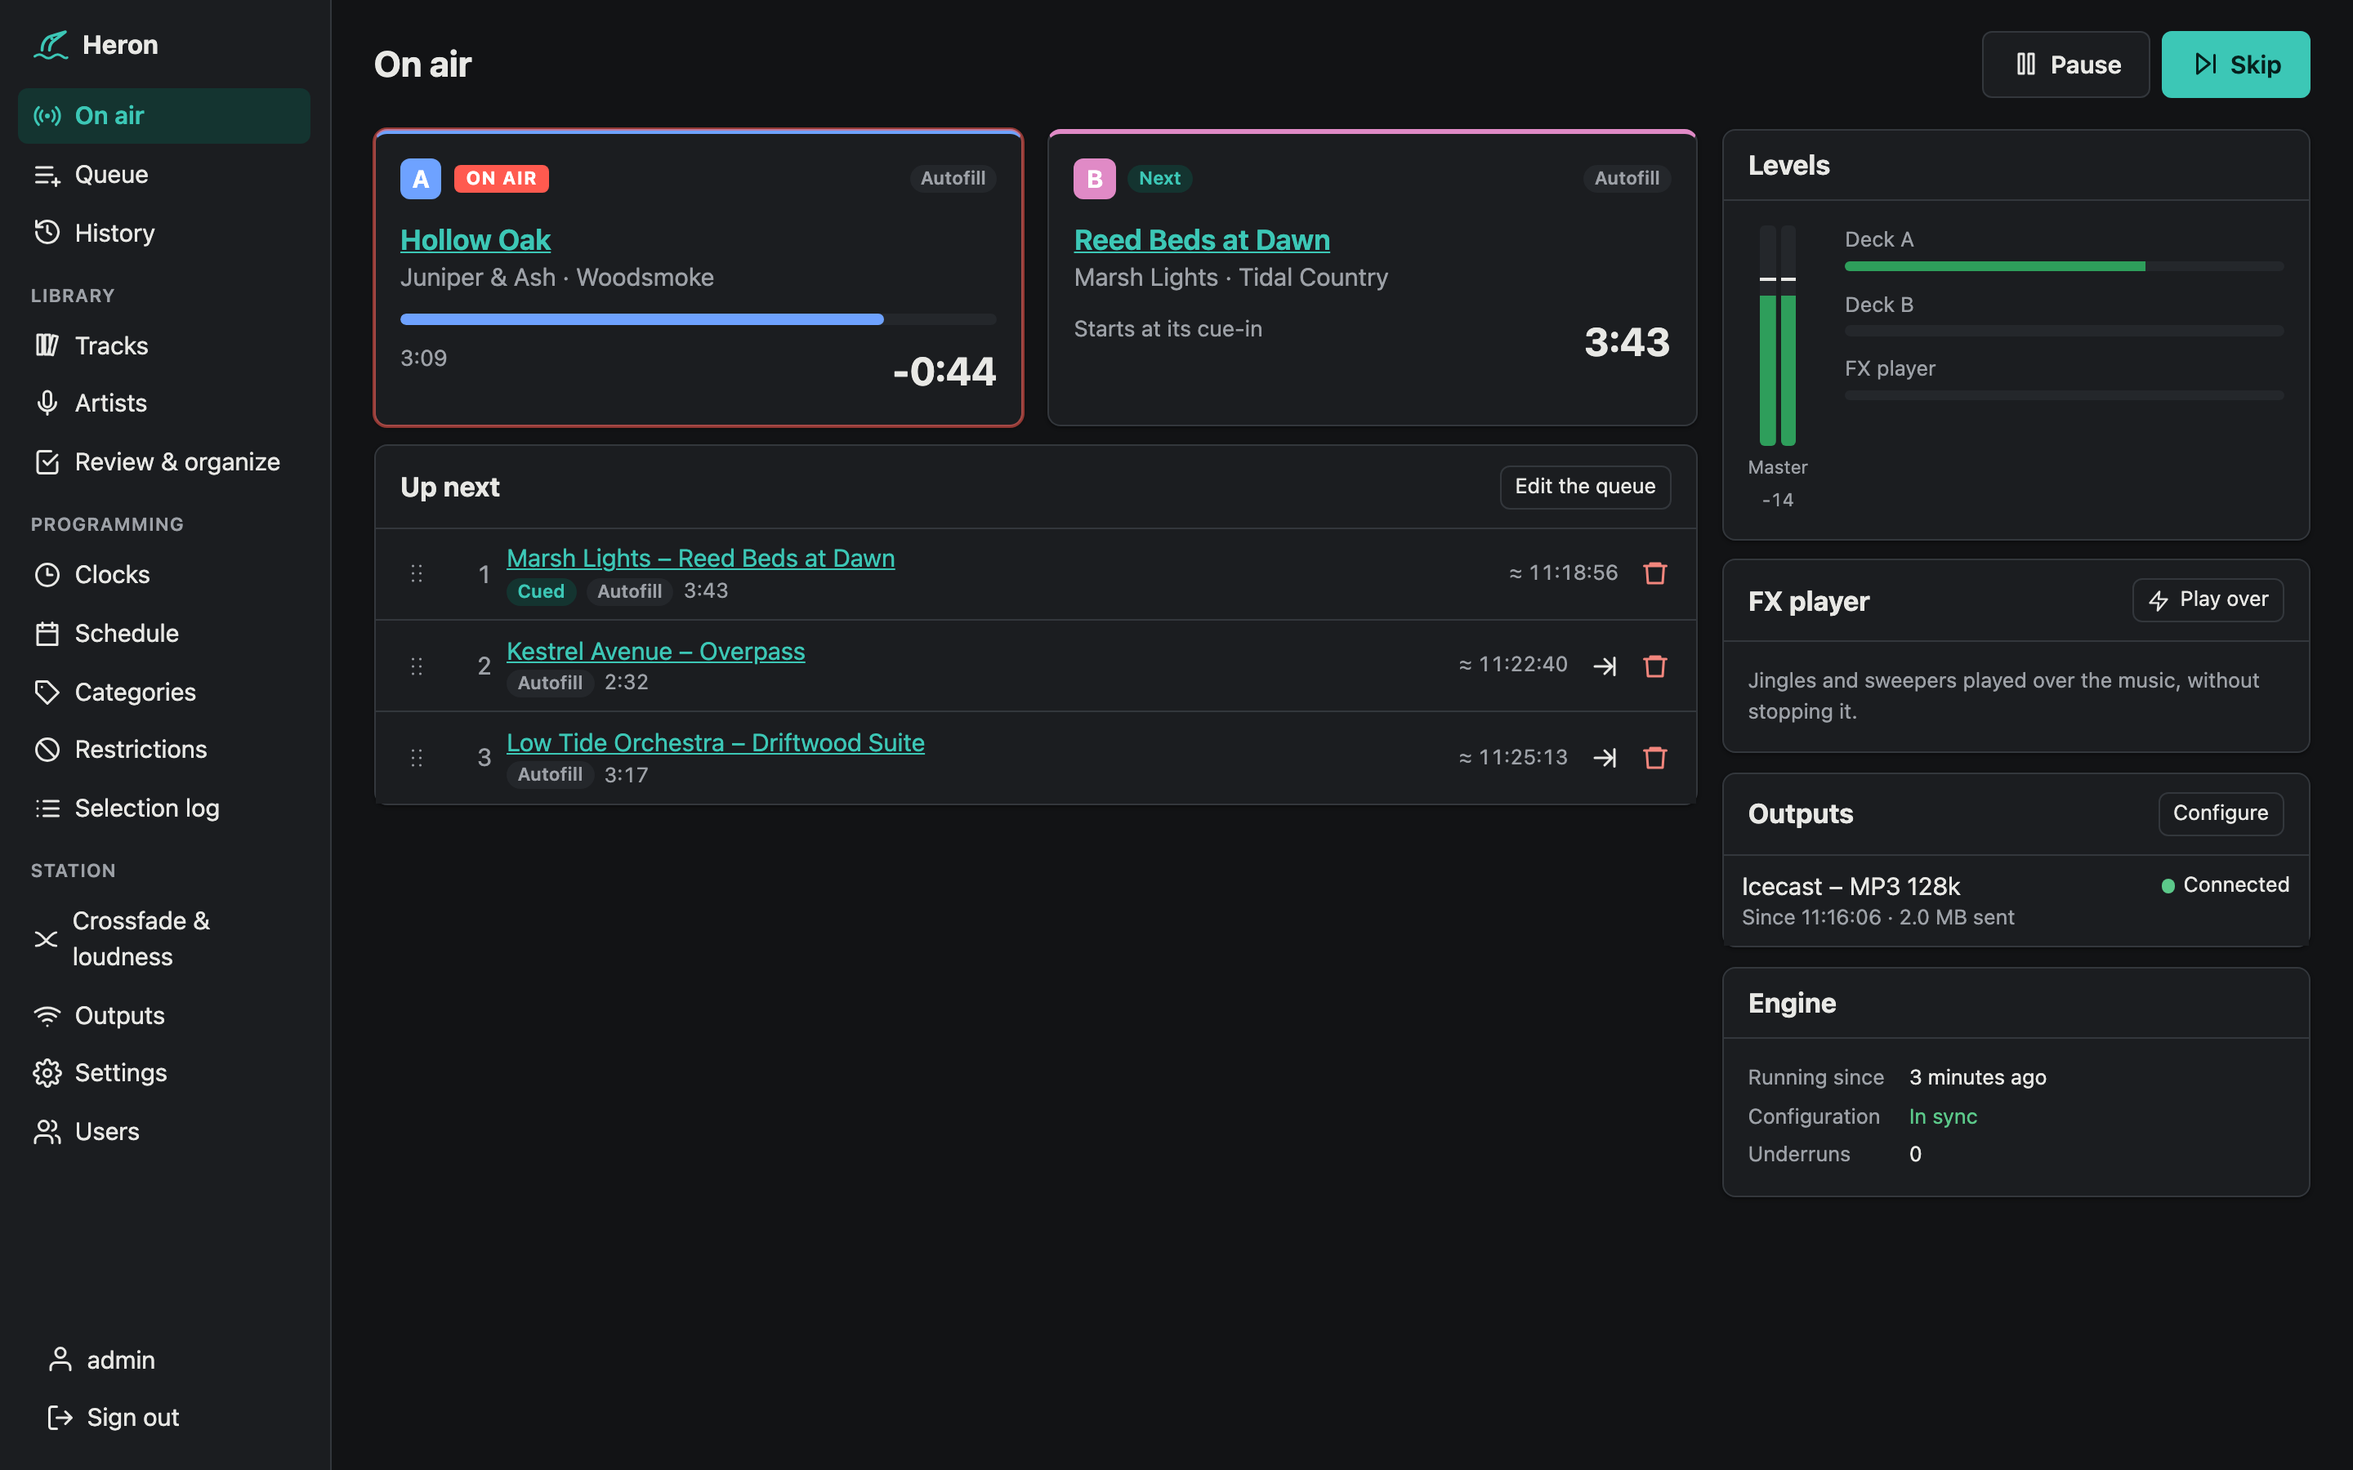
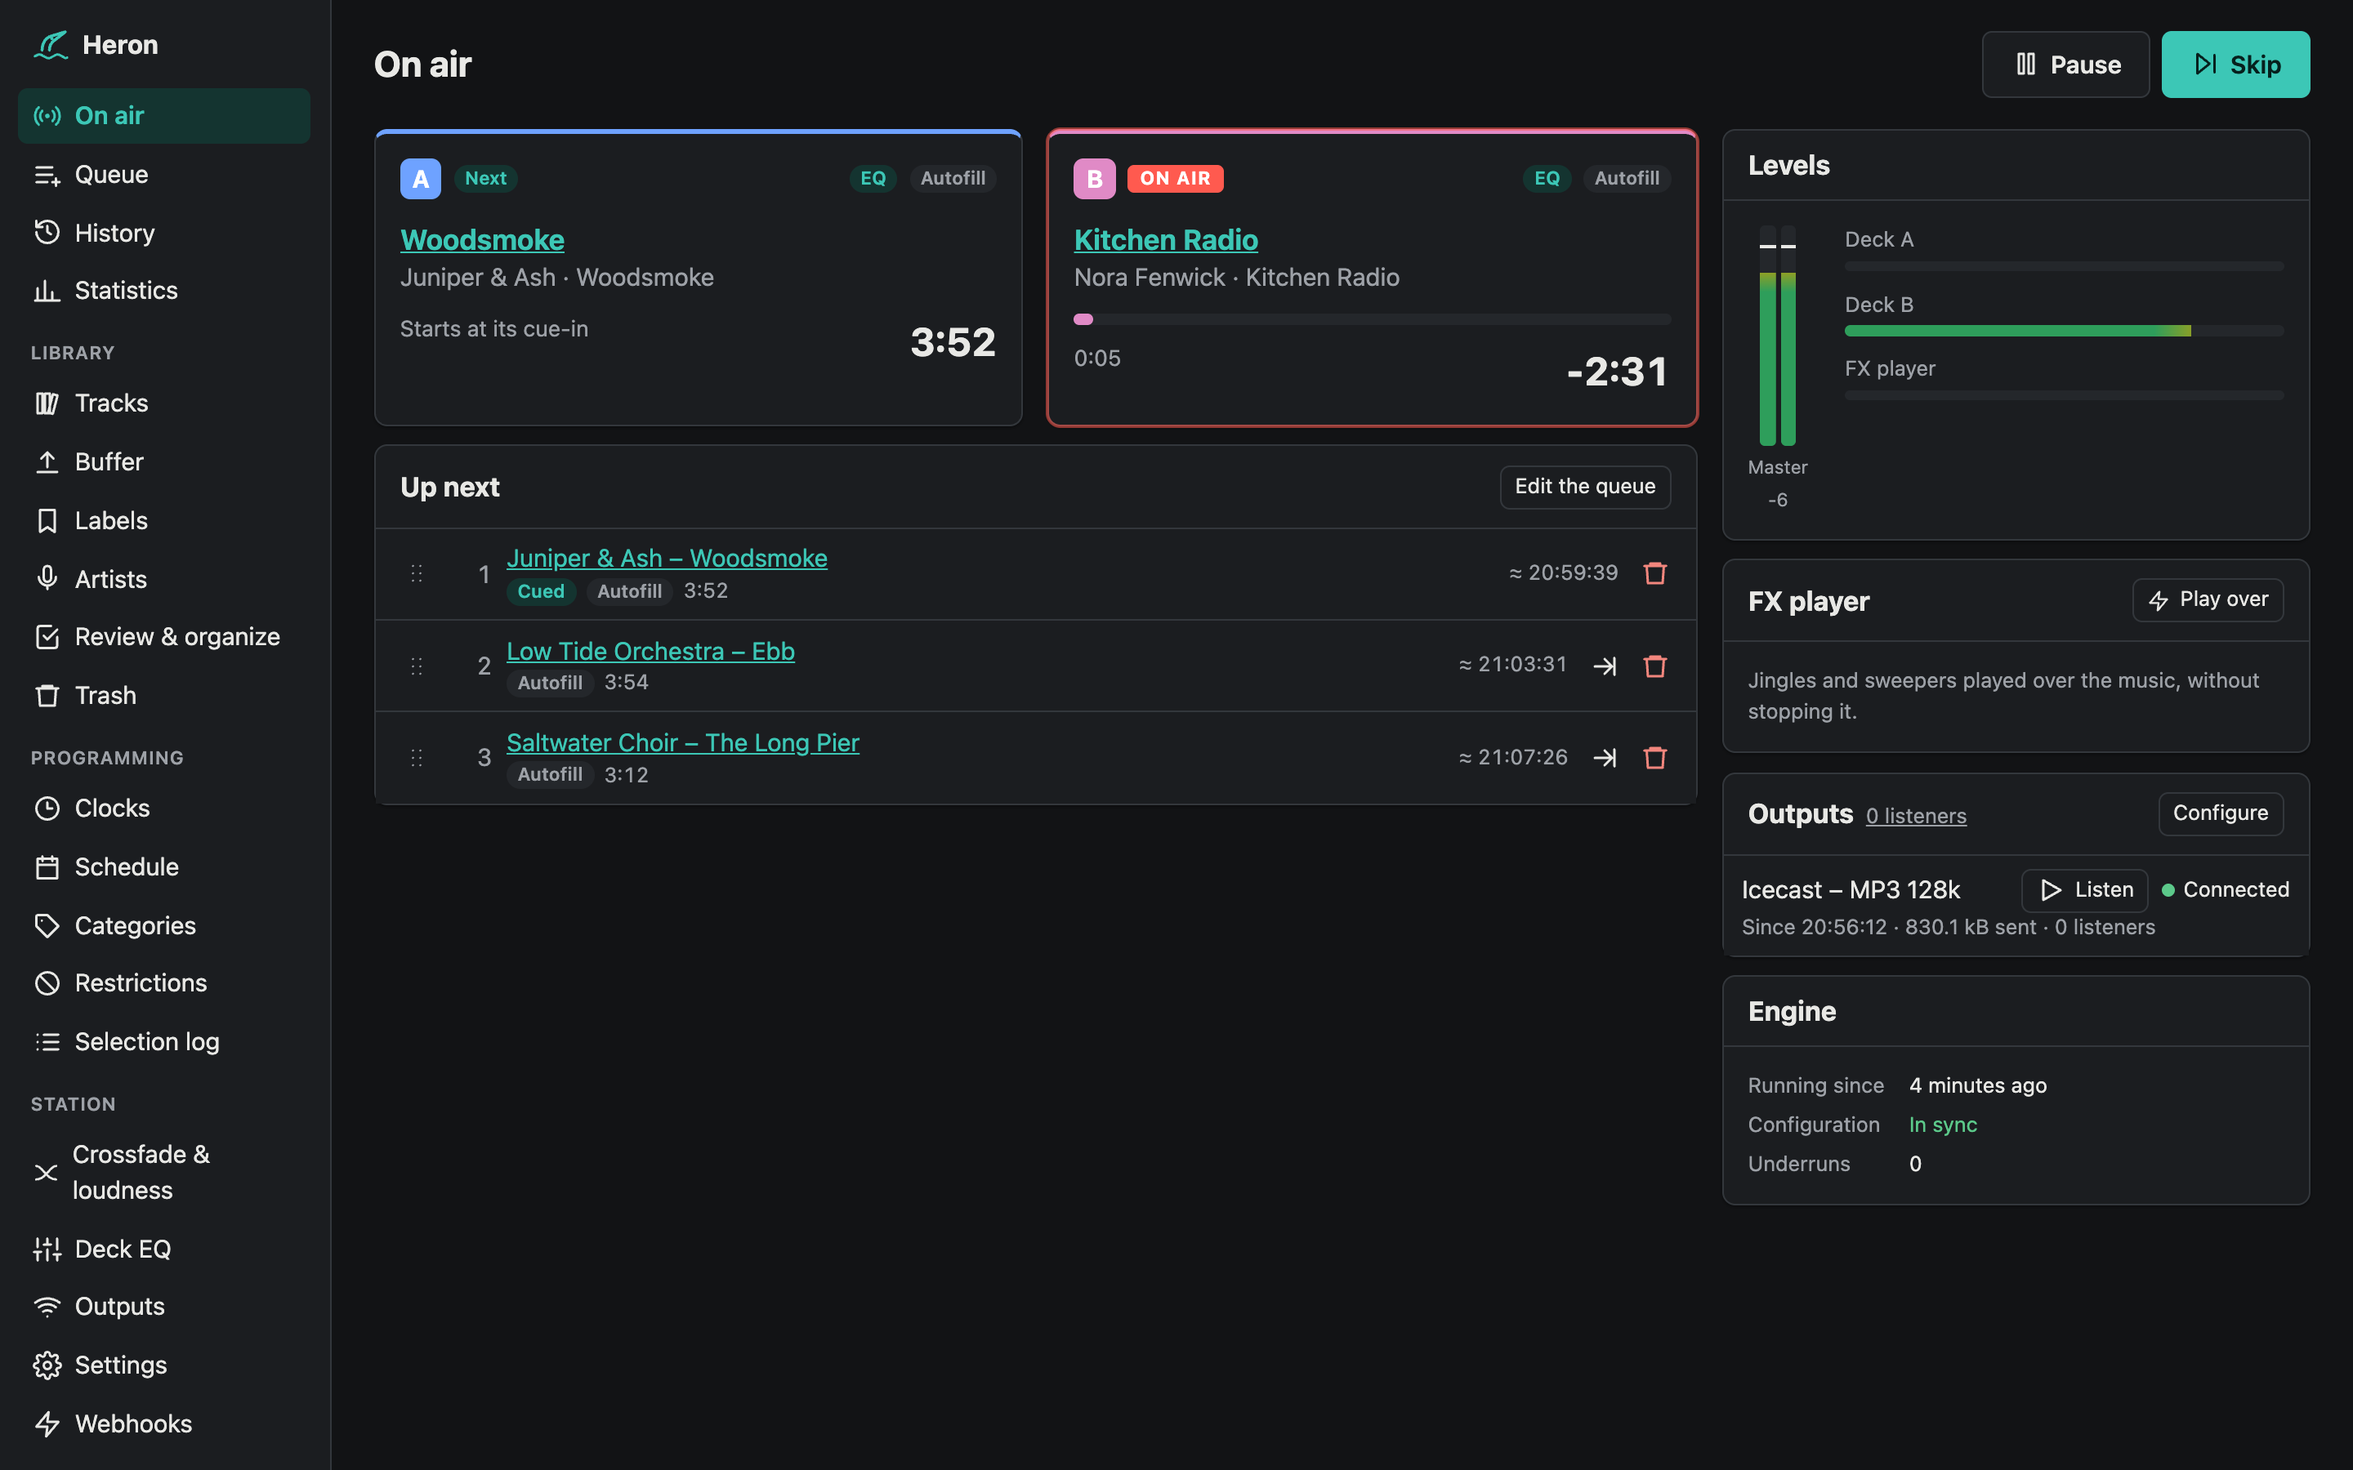
docs, web: M9 acceptance so far, README and screenshots
The README says what the deck EQ does, with a screenshot of its page,
and the On air screenshots show the EQ badge. Six of seven criteria
met; the click test still wants a listen on a stack. On the page, the
curve's scale is ±15 dB (±18 made usual settings look flat), and the
deck's EQ badge is not underlined like a text link.

diff --git a/web/src/pages/Eq.tsx b/web/src/pages/Eq.tsx
@@ -203,10 +203,11 @@ function sameGains(a: number[], b: number[]): boolean {
   return a.length === b.length && a.every((gain, i) => gain === b[i]);
 }
 
-// The curve: 20 Hz to 20 kHz on a log scale, ±18 dB.
+// The curve: 20 Hz to 20 kHz on a log scale, ±15 dB: a band's ±12 and
+// some of what neighbours add up to.
 const WIDTH = 600;
 const HEIGHT = 140;
-const RANGE_DB = 18;
+const RANGE_DB = 15;
 const x = (frequency: number) => (Math.log10(frequency / 20) / 3) * WIDTH;
 const y = (db: number) => HEIGHT / 2 - (Math.max(-RANGE_DB, Math.min(RANGE_DB, db)) / RANGE_DB) * (HEIGHT / 2);
 

diff --git a/web/src/pages/Dashboard.tsx b/web/src/pages/Dashboard.tsx
@@ -313,7 +313,7 @@ function Deck({
           </div>
           <div className="row" style={{ flexWrap: "nowrap" }}>
             {shaping && (
-              <Link to="/eq" className="badge accent" title={t("dashboard.eqOn")}>
+              <Link to="/eq" className="badge accent badge-link" title={t("dashboard.eqOn")}>
                 {t("dashboard.eq")}
               </Link>
             )}

diff --git a/web/src/index.css b/web/src/index.css
@@ -806,6 +806,14 @@ table.table {
 }
 
 /* A label on a track. */
+a.badge-link {
+  text-decoration: none;
+}
+
+a.badge-link:hover {
+  text-decoration: underline;
+}
+
 .chip {
   display: inline-flex;
   align-items: center;

diff --git a/README.md b/README.md
@@ -6,7 +6,7 @@ The name comes from "air on" sounding like *héron*: keeping the air on, 24/7.
 
 ![The On air page: decks A and B, the next tracks, levels, the FX player, outputs and the engine's state](docs/images/on-air.png)
 
-> **Status:** early development, but it plays. Heron imports and analyzes a music library, takes new music by upload or through an incoming folder and files it once you import it, plays a queue with crossfades to Icecast servers, picks the music with categories, clocks and a weekly schedule, keeps the air on when the database, the API or the library goes away, and when Heron itself is upgraded, tells websites and bots what plays through signed webhooks and public now-playing endpoints, counts its listeners from the stream servers, and is operated from a web interface in English or French. Next: audio processing (M9, M10). See the [roadmap](docs/roadmap/README.md).
+> **Status:** early development, but it plays. Heron imports and analyzes a music library, takes new music by upload or through an incoming folder and files it once you import it, plays a queue with crossfades to Icecast servers, picks the music with categories, clocks and a weekly schedule, keeps the air on when the database, the API or the library goes away, and when Heron itself is upgraded, tells websites and bots what plays through signed webhooks and public now-playing endpoints, counts its listeners from the stream servers, shapes the sound with a deck EQ, and is operated from a web interface in English or French. Next: the AGC and multiband processing (M10). See the [roadmap](docs/roadmap/README.md).
 
 Heron runs on Linux, amd64 and arm64, down to a Raspberry Pi.
 
@@ -15,12 +15,13 @@ Heron runs on Linux, amd64 and arm64, down to a Raspberry Pi.
 - **Library:** watches your music folder (MP3, AAC and ALAC in M4A, FLAC, Ogg Vorbis, WAV, AIFF) and analyzes every track: loudness, true peak, silences at both ends, where the next track can start, a waveform. See [Import and analysis](docs/analysis.md).
 - **New music and deletion:** files uploaded from the browser (resumable, folders included) or dropped into the incoming folder wait in a buffer zone, identified (AcoustID, MusicBrainz) and checked for duplicates and unplayable files, until you import them. There you fix their tags and give them categories, labels, mood and sound code, so they are ready to air once imported; they are then tagged and filed as `Artist/Album/01 Title.ext`. Deleted tracks go to a trash they can be restored from for 30 days. Reorganizing the library is a dry run first, journaled, and can be undone. See [Library management](docs/library.md).
 - **Playout:** two decks with crossfades or fixed overlaps, Gap Killer, loudness normalization, an FX player for jingles over the music, a fallback folder, MP3 to one or more Icecast servers with track metadata. See [Audio engine](docs/audio-engine.md) and [Encoders and outputs](docs/outputs.md).
+- **Deck EQ:** a 10-band EQ for the music and another for the FX player, ±12 dB, heard as the sliders move and without clicks, with presets. See [Audio engine – Deck EQ](docs/audio-engine.md#deck-eq).
 - **Reliability and monitoring:** the next tracks are read into memory ahead of time, a fallback folder plays when the queue runs dry, a silence watchdog skips dead tracks, and the queue resumes where it was after a restart. Every service pushes its metrics to your Prometheus or Grafana Cloud, with a dashboard and alert rules to import, and errors can go to Sentry. See [Monitoring](docs/monitoring.md).
 - **Upgrades on air:** a new engine takes over from the running one, with its queue and its connection to Icecast, so an upgrade costs listeners about 70 ms of silence instead of a disconnection; when the engine does restart, Icecast's fallback mount keeps them connected. See [Upgrading](docs/upgrading.md) and [Engine handover](docs/handover.md).
 - **Rotation:** categories, clocks of slots, a weekly schedule, separation rules (title, artist, album) relaxed step by step when the library runs short, artists with several names, restrictions (dayparting, date ranges, sequences) that are never relaxed, and a selection log that explains every pick. A simulation checks a day or a week ahead. See [Rotation](docs/rotation.md).
 - **Integrations:** webhooks on track start, end and skip, with Heron's JSON or a template of your own, signed (HMAC-SHA256), retried with backoff and logged; public now-playing and history endpoints for the station's website, readable from any origin. See [API – Webhooks](docs/api.md#webhooks).
 - **Listener statistics:** listeners per day, hour, output and track, read from your Icecast servers once a minute: peak, average, listening hours, sessions, distinct listeners, the hours of the day, the players and the tracks listeners leave, with CSV exports. No IP address is stored. See [Listener statistics](docs/statistics.md).
-- **Web interface:** on air, queue, history, statistics, tracks with their waveform, cue points, details, labels and tags, the buffer and the trash, artists, clocks, schedule, restrictions, outputs, webhooks and settings; live updates, light and dark themes, English and French, from phone width up. Viewer, operator and admin roles. See [Web UI](docs/web.md).
+- **Web interface:** on air, queue, history, statistics, tracks with their waveform, cue points, details, labels and tags, the buffer and the trash, artists, clocks, schedule, restrictions, the deck EQ, outputs, webhooks and settings; live updates, light and dark themes, English and French, from phone width up. Viewer, operator and admin roles. See [Web UI](docs/web.md).
 - **API:** everything the web interface does goes through a documented HTTP and WebSocket API (OpenAPI), with API tokens for scripts. See [API and control plane](docs/api.md).
 
 ## Screenshots
@@ -28,9 +29,8 @@ Heron runs on Linux, amd64 and arm64, down to a Raspberry Pi.
 | | |
 |---|---|
 | [![A clock: its slots, the hour drawn as it will sound, a simulation](docs/images/clock-editor.png)](docs/images/clock-editor.png) **Clock editor:** slots by drag and drop, the hour as it will sound | [![A track: waveform with cue-in, cue-out and where the next track starts](docs/images/track.png)](docs/images/track.png) **Track:** waveform, cue points and crossfade, analysis |
-| [![The week, hour by hour, painted with clocks](docs/images/schedule.png)](docs/images/schedule.png) **Schedule:** which clock runs at each hour of the week | [![The On air page in the dark theme](docs/images/on-air-dark.png)](docs/images/on-air-dark.png) **Dark theme** |
-
-<p align="center"><img src="docs/images/on-air-phone.png" alt="The On air page at phone width" width="260"></p>
+| [![The week, hour by hour, painted with clocks](docs/images/schedule.png)](docs/images/schedule.png) **Schedule:** which clock runs at each hour of the week | [![The deck EQ: ten sliders and the response curve for the music, and for the FX player](docs/images/eq.png)](docs/images/eq.png) **Deck EQ:** the music and the FX player, heard as the sliders move |
+| [![The On air page in the dark theme](docs/images/on-air-dark.png)](docs/images/on-air-dark.png) **Dark theme** | <p align="center"><img src="docs/images/on-air-phone.png" alt="The On air page at phone width" width="200"></p> **Phone width** |
 
 The screenshots show a demo station with generated music by fictional artists.
 

diff --git a/docs/roadmap/m9-deck-eq.md b/docs/roadmap/m9-deck-eq.md
@@ -34,13 +34,13 @@ Stations shape the sound of what they play: more bass for a dance format, less h
 
 ## Acceptance criteria
 
-- [ ] Frequency response tests match expected curves: each band alone at ±12 dB and in between, and random settings of all ten, match the response of the filter design computed in `f64` within 0.1 dB from 20 Hz to 20 kHz. A band alone at +12 dB gives +12 dB at its centre frequency; a flat EQ changes nothing, and a bypassed one is bit-identical to no EQ.
-- [ ] No clicks when moving sliders during playback: sines rendered while a band goes from −12 to +12 dB and back, while a preset is loaded, and while the EQ is enabled and bypassed show no step (no sample-to-sample change larger than the steady sine's own), and their energy more than 500 Hz from the sine stays within 10 dB of an ideal glide's (the level and phase of the design moving with the gains, which no filter can follow instantly) and 30 dB under that of the same change made at once, which clicks. Checked by ear on a stack too.
-- [ ] The audio thread still never allocates: `tests/no_alloc.rs` moves and toggles both EQs during crossfades.
-- [ ] A slider moved in the web UI is heard within 200 ms, and other open pages follow it.
-- [ ] Presets: save, load into either EQ, rename, delete, through the API and the web UI. `Flat` is there on a fresh install.
-- [ ] The EQ survives an engine restart and a hot handover ([M8](m8-hot-engine-upgrade.md)): the new engine plays with it from its first sample, with no glide from flat.
-- [ ] An engine from before M9, started on the same state volume (a rollback), plays on, without EQ.
+- [x] Frequency response tests match expected curves: each band alone at ±12 dB and in between, and random settings of all ten, match the response of the filter design computed in `f64` within 0.1 dB from 20 Hz to 20 kHz. A band alone at +12 dB gives +12 dB at its centre frequency; a flat EQ changes nothing, and a bypassed one is bit-identical to no EQ. (`heron_dsp::eq::tests`: 23 settings × 31 frequencies; `heron-engine` mixer tests: a crossfade through the music EQ equals the crossfade without it, through one EQ.)
+- [ ] No clicks when moving sliders during playback: sines rendered while a band goes from −12 to +12 dB and back, while a preset is loaded, and while the EQ is enabled and bypassed show no step (no sample-to-sample change larger than the steady sine's own), and their energy more than 500 Hz from the sine stays within 10 dB of an ideal glide's (the level and phase of the design moving with the gains, which no filter can follow instantly) and 30 dB under that of the same change made at once, which clicks. (`heron_dsp::eq::tests`: smoothed changes stay within 8 dB of the ideal glide and 35 to 55 dB under a jump, which a control test shows failing both checks. The first filter form, a direct form biquad, failed them: hence the state-variable filters.) Checked by ear on a stack too.
+- [x] The audio thread still never allocates: `tests/no_alloc.rs` moves and toggles both EQs during crossfades.
+- [x] A slider moved in the web UI is heard within 200 ms, and other open pages follow it. (Two key presses on a slider, the second held back by the 100 ms between requests: the engine had the final value 111 to 131 ms later, another open page showed it 128 to 133 ms later.)
+- [x] Presets: save, load into either EQ, rename, delete, through the API and the web UI. `Flat` is there on a fresh install. (`e2e::deck_eq_and_presets`; in a browser: saved from the music EQ, loaded into the FX EQ, deleted.)
+- [x] The EQ survives an engine restart and a hot handover ([M8](m8-hot-engine-upgrade.md)): the new engine plays with it from its first sample, with no glide from flat. (`tests/handover.rs`, the hand-over and the cold start after a given-up handover; `config::tests`; settings applied before the first sample are checked by the mixer's crossfade test, filtered from frame 0.)
+- [x] An engine from before M9, started on the same state volume (a rollback), plays on, without EQ. (The engine of `main` before M9, on a state with `eq` in `config.json`: it resumed the saved track, no error. Hot handovers keep protocol 1, so either way works; an older engine handing over to M9 hands no EQ, and the API pushes it to the new engine as soon as it sees it.)
 
 ## References
 
